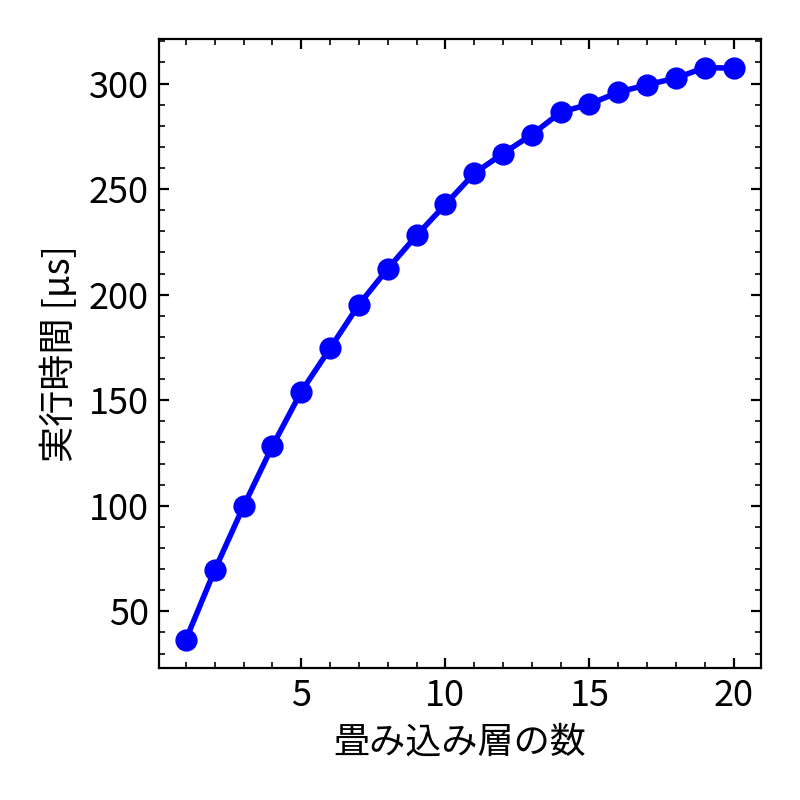
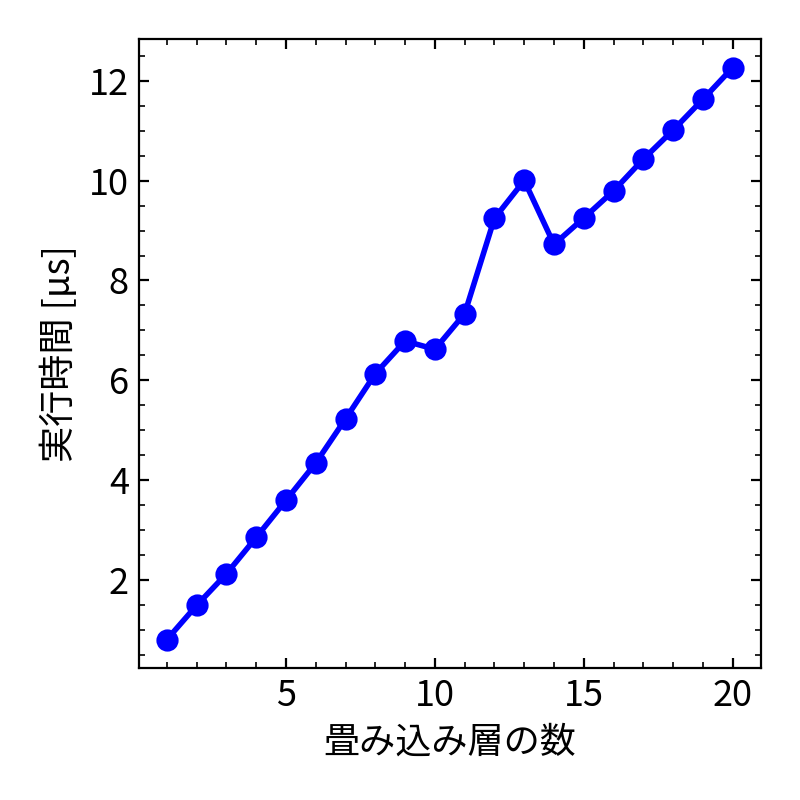
update layer benchmark

diff --git a/benches/verifiable_method.rs b/benches/verifiable_method.rs
@@ -184,16 +184,16 @@ fn bench_dense(c: &mut Criterion) {
 fn bench_conv(c: &mut Criterion) {
     let mut group = c.benchmark_group("Bench Conv: Verifiable Method");
 
-    let size = 50;
+    let size = 10;
     for num_layer in 1..=20 {
         let mut layers = vec![];
 
-        for i in 0..num_layer {
+        for _ in 0..num_layer {
             let conv = Conv {
                 stride: 1,
-                weight: vec![vec![vec![vec![0, 0, 0], vec![0, 0, 0], vec![0, 0, 0]]]],
+                weight: vec![vec![vec![vec![0]]]],
                 bias: vec![0],
-                input_size: size - (i * 2),
+                input_size: size,
             };
             layers.push(conv);
         }
@@ -203,39 +203,37 @@ fn bench_conv(c: &mut Criterion) {
             input_size: size,
         };
         let circuits = model.circuits();
-        println!("Layer {num_layer}: {}", circuits.len());
 
-        //let trusted_party = TrustedParty::setup(model, circuits);
-        //
-        //let worker = trusted_party.assigment_worker();
-        //let client = trusted_party.create_client();
-        //
-        //let input = vec![1; size * size];
-        //let (output, proof) = worker.run(&input);
-        //let inputs = Assignment::new(
-        //    &input
-        //        .iter()
-        //        .copied()
-        //        .chain(output.clone())
-        //        .map(|x| from_i64(x).to_bytes())
-        //        .collect::<Vec<_>>(),
-        //)
-        //.unwrap();
+        let trusted_party = TrustedParty::setup(model, circuits);
+
+        let worker = trusted_party.assigment_worker();
+        let client = trusted_party.create_client();
+
+        let input = vec![1; size * size];
+        let (output, proof) = worker.run(&input);
+        let inputs = Assignment::new(
+            &input
+                .iter()
+                .copied()
+                .chain(output.clone())
+                .map(|x| from_i64(x).to_bytes())
+                .collect::<Vec<_>>(),
+        )
+        .unwrap();
 
         group.bench_with_input(
             BenchmarkId::new("Number of Layers", num_layer),
             &size,
             |b, &_| {
                 b.iter(|| {
-                    // dummy
-                    //proof
-                    //    .verify(
-                    //        black_box(&client.commitment),
-                    //        black_box(&inputs),
-                    //        black_box(&mut Transcript::new(b"SNARK")),
-                    //        black_box(&client.gens),
-                    //    )
-                    //    .unwrap();
+                    proof
+                        .verify(
+                            black_box(&client.commitment),
+                            black_box(&inputs),
+                            black_box(&mut Transcript::new(b"SNARK")),
+                            black_box(&client.gens),
+                        )
+                        .unwrap();
                 })
             },
         );

diff --git a/benches/normal_method.rs b/benches/normal_method.rs
@@ -62,19 +62,19 @@ fn compute_conv(input: Vec<Vec<Vec<i64>>>, model: &[Conv]) -> Vec<Vec<Vec<i64>>>
 #[allow(dead_code)]
 fn bench_conv(c: &mut Criterion) {
     let mut group = c.benchmark_group("Bench Conv: Normal Method");
-    let size = 50;
+    let size = 10;
     for num_layer in 1..=20 {
         group.bench_with_input(
             BenchmarkId::new("Number of Layers", num_layer),
             &size,
             |b, &size| {
                 let mut model = vec![];
-                for i in 0..num_layer {
+                for _ in 0..num_layer {
                     let conv = Conv {
                         stride: 1,
-                        weight: vec![vec![vec![vec![0, 0, 0], vec![0, 0, 0], vec![0, 0, 0]]; 1]; 1],
+                        weight: vec![vec![vec![vec![0]]]],
                         bias: vec![0],
-                        input_size: size - (i * 2),
+                        input_size: size,
                     };
                     model.push(conv);
                 }

diff --git a/graph.py b/graph.py
@@ -48,12 +48,10 @@ plt.close()
 
 layers = list(range(1, 21))
 times_n = [
-    36.625, 69.556, 99.844, 128.27, 154.04, 174.57, 195.29, 212.25, 228.06, 242.74,
-    257.45, 266.87, 275.82, 286.45, 290.25, 295.94, 299.42, 302.62, 307.57, 307.32
+  0.80273, 1.4881, 2.1202, 2.8509, 3.5942, 4.3412, 5.2266, 6.1322, 6.7869, 6.6215, 7.3355, 9.2459, 10.005, 8.7236, 9.2522, 9.7964, 10.433, 11.014, 11.632, 12.267,
 ]
 times_v = [
-    65.945, 71.406, 84.486, 91.818, 109.06, 108.97, 109.58, 108.68, 116.75, 116.59,
-    116.71, 116.11, 116.13, 116.44, 115.62, 142.70, 142.32, 142.96, 142.67, 143.34
+  12.947, 15.416, 17.034, 18.463, 20.894, 20.766, 22.603, 22.595, 22.526, 25.589, 25.524, 25.355, 25.473, 27.650, 27.555, 27.727, 27.571, 27.763, 27.624, 27.601,
 ]
 
 plt.figure(figsize=figsize)

diff --git a/src/main.rs b/src/main.rs
@@ -109,6 +109,7 @@ fn main() {
         client.delegate_computation(&input, &worker).is_some()
     );
 
+
     //let model = Model::load();
     //let mnist = MnistBuilder::new()
     //    .label_format_digit()
